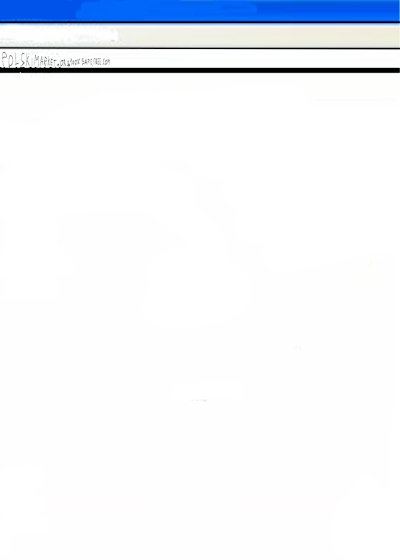
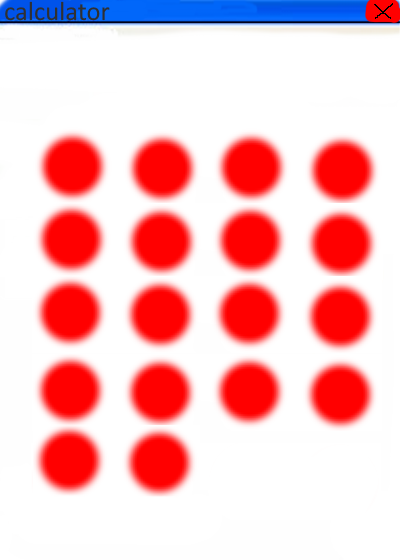
calculator dragging

diff --git a/pc.py b/pc.py
@@ -326,6 +326,7 @@ class Calculator:
     POS = (47, 4)
     GRID, CELL, COLS = (20, 140), (90, 70), 4
     CLOSE = pygame.Rect(360, 0, 40, 30)
+    TITLE = pygame.Rect(0, 0, 360, 30)
     MAX = 14
     KEYS = ("C", "<", "/", "*", "7", "8", "9", "-", "4", "5", "6", "+", "1", "2", "3", "=", "0", ".", "", "")
 
@@ -335,6 +336,8 @@ class Calculator:
         self.font = pygame.font.SysFont(None, 50, True)
         self.open = self.focus = self.after = False
         self.text = ""
+        self.dragging = False
+        self.grab = (0, 0)
     
     def contains(self, pos):
         return self.open and self.rect.collidepoint(pos)
@@ -382,10 +385,18 @@ class Calculator:
         if self.CLOSE.collidepoint(x, y):
             self.open = False
             return
+        if self.TITLE.collidepoint(x, y):
+            self.dragging =  True
+            self.grab = (x, y)
+            return
         col = (x - self.GRID[0]) // self.CELL[0]
         row = (y - self.GRID[1]) // self.CELL[1]
         if 0 <= col < self.COLS and 0 <= row < len(self.KEYS) // self.COLS:
             self.press(self.KEYS[row * self.COLS + col])
+
+    def drag(self, pos):
+        self.rect.x = max(0, min(pos[0] - self.grab[0], WIDTH - self.rect.w))
+        self.rect.y = max(0, min(pos[1] - self.grab[1], HEIGHT - self.rect.h))
 
     def key(self, e):
         if e.key == pygame.K_BACKSPACE:
@@ -415,6 +426,13 @@ class Desktop:
         self.browser, self.player = Browser(), None
 
     def handle(self, e):
+        if e.type == pygame.MOUSEMOTION and self.calc.dragging:
+            self.calc.drag(e.pos)
+            return
+        if e.type == pygame.MOUSEBUTTONUP and e.button == 1 and self.calc.dragging:
+            self.calc.dragging = False
+            return
+        
         if e.type == pygame.MOUSEBUTTONDOWN and e.button == 1:
             self.calc.focus = self.calc.contains(e.pos)
             if self.calc.focus:
